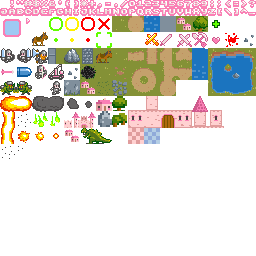
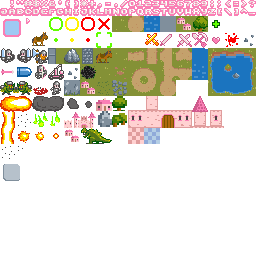
feat: damage and kill

Changed region(s): [[0.0, 0.625, 0.0938, 0.7188], [0.125, 0.3438, 0.1875, 0.375]]

diff --git a/src/main.ts b/src/main.ts
@@ -1,7 +1,7 @@
 import "./style.css";
 import { createCanvas, gameLoop, loadImage } from "./engine/gl-util.ts";
 import { SpriteRenderer } from "./engine/SpriteRenderer.ts";
-import { drawPanel, drawSprite2, drawText } from "./engine/renderUtils.ts";
+import { drawButton, drawPanel, drawSprite2, drawText } from "./engine/renderUtils.ts";
 import { TileMap } from "./engine/tilemap.ts";
 import { Game } from "./game/game.ts";
 import { findSprite, generateLevel } from "./game/levelGenerator.ts";
@@ -37,7 +37,7 @@ canvas.addEventListener("click", () => {
   game.eventQueue.push({ type: "click", pos: { ...game.cursor } });
 });
 
-const tilemap = new TileMap(30, 16);
+const tilemap = new TileMap(30, 17);
 generateLevel(tilemap);
 game.tilemap = tilemap;
 
@@ -53,8 +53,8 @@ function update() {
 function render() {
   const t = game.t;
 
-  for (let y = 0; y < 16; y++) {
-    for (let x = 0; x < 30; x++) {
+  for (let y = 0; y < 17; y++) {
+    for (let x = 6; x < 30; x++) {
       drawSprite2(renderer, x * 16, y * 16, tilemap.tiles[x + y * tilemap.width]);
     }
   }
@@ -171,26 +171,44 @@ function render() {
 
   const stats = game.ecs.getComponent<PlayerComponent>(game.activePlayer!, "player")!;
   if (stats) {
-    drawPanel(renderer, 0, 16, 10, 7);
-    drawText(renderer, 8, 24, stats.baseClass);
-    drawText(renderer, 8, 40, "HP: " + stats.health);
-    drawText(renderer, 8, 48, "AP: " + stats.strength);
-    drawText(renderer, 8, 56, "MP: " + stats.speed);
+    let y = 16;
+    drawPanel(renderer, 0, (y += 8), 12, 7);
+    drawText(renderer, 8, (y += 8), stats.baseClass);
+    drawText(renderer, 8, (y += 16), "HP: " + stats.health + "/" + stats.maxHealth);
+    drawText(renderer, 8, (y += 8), "AP: " + stats.strength);
+    drawText(renderer, 8, (y += 8), "MP: " + stats.speed);
   }
 
-  const hoveredfoeSprite = findSprite(game.ecs, game.cursor.x / 16, game.cursor.y / 16);
-  if (hoveredfoeSprite) {
-    const stats = game.ecs.getComponent<FoeComponent>(hoveredfoeSprite.entity, "foe")!;
-    if (stats) {
-      drawPanel(renderer, 0, 16 + 8 * 8, 10, 7);
-      drawText(renderer, 8, 24 + 8 * 8, stats.baseClass);
-      drawText(renderer, 8, 40 + 8 * 8, "HP: " + stats.health);
-      drawText(renderer, 8, 48 + 8 * 8, "AP: " + stats.strength);
-      drawText(renderer, 8, 56 + 8 * 8, "MP: " + stats.speed);
+  const hoveredSprite = findSprite(game.ecs, game.cursor.x / 16, game.cursor.y / 16);
+  if (hoveredSprite) {
+    const foeStats = game.ecs.getComponent<FoeComponent>(hoveredSprite.entity, "foe")!;
+    if (foeStats) {
+      let y = 16 + 8 * 7;
+      drawPanel(renderer, 0, (y += 8), 12, 7);
+      drawText(renderer, 8, (y += 8), foeStats.baseClass);
+      drawText(renderer, 8, (y += 16), "HP: " + foeStats.health + "/" + foeStats.maxHealth);
+      drawText(renderer, 8, (y += 8), "AP: " + foeStats.strength);
+      drawText(renderer, 8, (y += 8), "MP: " + foeStats.speed);
+    } else if (game.activePlayer === null) {
+      const playerStats = game.ecs.getComponent<PlayerComponent>(hoveredSprite.entity, "player")!;
+      if (playerStats) {
+        let y = 16;
+        drawPanel(renderer, 0, (y += 8), 12, 7);
+        drawText(renderer, 8, (y += 8), playerStats.baseClass);
+        drawText(renderer, 8, (y += 16), "HP: " + playerStats.health + "/" + playerStats.maxHealth);
+        drawText(renderer, 8, (y += 8), "AP: " + playerStats.strength);
+        drawText(renderer, 8, (y += 8), "MP: " + playerStats.speed);
+      }
     }
   }
 
-  drawText(renderer, 16, 16 * 16 + 2, "Ore: " + game.inventory.ore);
+  drawPanel(renderer, 0, 0, 12, 3);
+  drawText(renderer, 8, 8, game.side + " turn");
+
+  if (game.side === "player") {
+    drawButton(renderer, 0, 15 * 16 + 8, 12, "End turn", true);
+  }
+  // drawText(renderer, 16, 16 * 16 + 2, "Ore: " + game.inventory.ore);
 
   renderer.render();
 }

diff --git a/src/game/game.ts b/src/game/game.ts
@@ -30,21 +30,45 @@ export class Game {
     const player = ecs.createEntity();
     ecs.addComponents(
       player,
-      { type: "player", moved: false, baseClass: "swordsman", health: 15, strength: 7, speed: 5 },
+      {
+        type: "player",
+        moved: false,
+        baseClass: "swordsman",
+        health: 15,
+        maxHealth: 15,
+        strength: 7,
+        speed: 5,
+      },
       { type: "sprite", x: 8 * 16, y: 3 * 16, sprite: spriteNames.swordsman },
     );
 
     const player2 = ecs.createEntity();
     ecs.addComponents(
       player2,
-      { type: "player", moved: false, baseClass: "dwarf", health: 17, strength: 5, speed: 5 },
+      {
+        type: "player",
+        moved: false,
+        baseClass: "dwarf",
+        health: 17,
+        maxHealth: 17,
+        strength: 5,
+        speed: 5,
+      },
       { type: "sprite", x: 8 * 16, y: 5 * 16, sprite: spriteNames.dwarf },
     );
 
     const player3 = ecs.createEntity();
     ecs.addComponents(
       player3,
-      { type: "player", moved: false, baseClass: "archer", health: 12, strength: 3, speed: 5 },
+      {
+        type: "player",
+        moved: false,
+        baseClass: "archer",
+        health: 12,
+        maxHealth: 12,
+        strength: 3,
+        speed: 5,
+      },
       { type: "sprite", x: 6 * 16, y: 4 * 16, sprite: spriteNames.archer },
       { type: "shoot", bullet: spriteNames.arrow },
     );
@@ -52,7 +76,15 @@ export class Game {
     const player4 = ecs.createEntity();
     ecs.addComponents(
       player4,
-      { type: "player", moved: false, baseClass: "trebuchet", health: 7, strength: 99, speed: 3 },
+      {
+        type: "player",
+        moved: false,
+        baseClass: "trebuchet",
+        health: 7,
+        maxHealth: 7,
+        strength: 99,
+        speed: 3,
+      },
       { type: "sprite", x: 6 * 16, y: 6 * 16, sprite: spriteNames.trebuchet },
       { type: "shoot", bullet: spriteNames.bomb },
     );
@@ -60,21 +92,45 @@ export class Game {
     const foe = ecs.createEntity();
     ecs.addComponents(
       foe,
-      { type: "foe", moved: false, baseClass: "orc", health: 10, strength: 1, speed: 5 },
+      {
+        type: "foe",
+        moved: false,
+        baseClass: "orc",
+        health: 10,
+        maxHealth: 10,
+        strength: 1,
+        speed: 5,
+      },
       { type: "sprite", x: 20 * 16, y: 10 * 16, sprite: spriteNames.orc },
     );
 
     const foe2 = ecs.createEntity();
     ecs.addComponents(
       foe2,
-      { type: "foe", moved: false, baseClass: "orc", health: 10, strength: 1, speed: 5 },
+      {
+        type: "foe",
+        moved: false,
+        baseClass: "orc",
+        health: 10,
+        maxHealth: 10,
+        strength: 1,
+        speed: 5,
+      },
       { type: "sprite", x: 21 * 16, y: 12 * 16, sprite: spriteNames.orc },
     );
 
     const dragon = ecs.createEntity();
     ecs.addComponents(
       dragon,
-      { type: "foe", moved: false, baseClass: "dragon", health: 57, strength: 11, speed: 3 },
+      {
+        type: "foe",
+        moved: false,
+        baseClass: "dragon",
+        health: 57,
+        maxHealth: 57,
+        strength: 11,
+        speed: 3,
+      },
       { type: "sprite", x: 23 * 16, y: 9 * 16, sprite: spriteNames.dragon1 },
     );
   }

diff --git a/src/game/moveSystem.ts b/src/game/moveSystem.ts
@@ -1,5 +1,7 @@
 import { Game } from "./game.ts";
-import { ShootComponent, SpriteComponent } from "./components.ts";
+import { FoeComponent, PlayerComponent, ShootComponent, SpriteComponent } from "./components.ts";
+import { findSprite } from "./levelGenerator.ts";
+import { spriteNames } from "./sprites.ts";
 
 export function moveSystem(game: Game) {
   if (game.commandQueue.length === 0) return;
@@ -21,14 +23,36 @@ export function moveSystem(game: Game) {
       break;
     }
     case "mine": {
-      game.inventory.ore += (3 + Math.random() * 3) | 0;
       if (command.ttl-- === 0) {
+        game.inventory.ore += (3 + Math.random() * 3) | 0;
         game.commandQueue.splice(game.commandQueue.indexOf(command), 1);
       }
       break;
     }
     case "attack": {
       if (command.ttl-- === 0) {
+        const targetSprite = findSprite(game.ecs, command.pos.x, command.pos.y);
+        const targetFoe =
+          targetSprite && game.ecs.getComponent<FoeComponent>(targetSprite.entity, "foe");
+        const targetPlayer =
+          targetSprite && game.ecs.getComponent<PlayerComponent>(targetSprite.entity, "player");
+        const actor =
+          game.ecs.getComponent<PlayerComponent>(command.entity, "player") ??
+          game.ecs.getComponent<FoeComponent>(command.entity, "foe");
+        const target = targetFoe ?? targetPlayer;
+        if (actor && target) {
+          target.health -= actor.strength;
+          if (target.health <= 0) {
+            game.ecs.removeEntity(targetSprite!.entity);
+            const skull = game.ecs.createEntity();
+            game.ecs.addComponents(skull, {
+              type: "sprite",
+              x: targetSprite!.x,
+              y: targetSprite!.y,
+              sprite: spriteNames.skull,
+            });
+          }
+        }
         game.commandQueue.splice(game.commandQueue.indexOf(command), 1);
       }
       break;

diff --git a/src/engine/renderUtils.ts b/src/engine/renderUtils.ts
@@ -6,6 +6,7 @@ export function drawTextbox(
   y: number,
   w: number,
   text: string,
+  centered = false,
 ) {
   let lines = [];
   let currentWidth = 0;
@@ -29,14 +30,57 @@ export function drawTextbox(
   }
   drawPanel(renderer, x, y, w, lines.length + 2);
   lines.forEach((line, i) => {
-    drawText(renderer, x + 8, y + 8 + i * 8, line);
+    const leftPad = centered ? 7 + (maxWidth - line.length * 7) / 2 : 8;
+    drawText(renderer, x + leftPad, y + 8 + i * 8, line);
   });
 }
 
-export function drawPanel(renderer: SpriteRenderer, x: number, y: number, w: number, h: number) {
+export function drawButton(
+  renderer: SpriteRenderer,
+  x: number,
+  y: number,
+  w: number,
+  text: string,
+  centered = false,
+) {
+  let lines = [];
+  let currentWidth = 0;
+  const maxWidth = w * 8 - 16;
+  let currentLine: string[] = [];
+  const words = text.split(" ");
+  words.forEach((word, i) => {
+    if (currentWidth + word.length * 7 > maxWidth) {
+      lines.push(currentLine.join(" "));
+      currentWidth = 0;
+      currentLine = [];
+    }
+    currentLine.push(word);
+    currentWidth += word.length * 7;
+    if (i < words.length - 1) {
+      currentWidth += 7;
+    }
+  });
+  if (currentLine.length > 0) {
+    lines.push(currentLine.join(" "));
+  }
+  drawPanel(renderer, x, y, w, lines.length + 2, 32 * 21 + 1);
+  lines.forEach((line, i) => {
+    const leftPad = centered ? 7 + (maxWidth - line.length * 7) / 2 : 8;
+    drawText(renderer, x + leftPad, y + 8 + i * 8, line);
+  });
+}
+
+export function drawPanel(
+  renderer: SpriteRenderer,
+  x: number,
+  y: number,
+  w: number,
+  h: number,
+  base = 32 * 3 + 1,
+) {
   for (let dy = 0; dy < h; dy++) {
     for (let dx = 0; dx < w; dx++) {
-      let sprite = 32 * 3 + 1;
+      let sprite = base;
       if (dy === 0) sprite -= 32;
       if (dy === h - 1) sprite += 32;
       if (dx === 0) sprite -= 1;

diff --git a/src/engine/SpriteRenderer.ts b/src/engine/SpriteRenderer.ts
@@ -233,7 +233,7 @@ export class SpriteRenderer {
         gl.bufferSubData(gl.ARRAY_BUFFER, 0, this.dataview, 0);
         gl.drawArrays(gl.TRIANGLES, 0, 6 * (batchSize + 1));
         offset = -4;
-        painted += batchSize;
+        painted += batchSize + 1;
       }
     });
 
@@ -242,6 +242,7 @@ export class SpriteRenderer {
       gl.bufferSubData(gl.ARRAY_BUFFER, 0, this.dataview, 0);
       gl.drawArrays(gl.TRIANGLES, 0, 6 * remaining);
     }
+
     this.queue.length = 0;
   }
 }

diff --git a/src/engine/findPath.ts b/src/engine/findPath.ts
@@ -66,6 +66,6 @@ export function findPath(
   return path.reverse();
 }
 
-function hDist(a: Point, b: Point) {
+export function hDist(a: Point, b: Point) {
   return Math.abs(a.x - b.x) + Math.abs(a.y - b.y);
 }

diff --git a/src/game/components.ts b/src/game/components.ts
@@ -22,6 +22,7 @@ export interface ShootComponent {
 
 export interface Stats {
   baseClass: BaseClass;
+  maxHealth: number;
   health: number;
   strength: number;
   speed: number;

diff --git a/src/game/sprites.ts b/src/game/sprites.ts
@@ -8,6 +8,8 @@ export const spriteNames = {
   dragon1: 16 * 8 + 5,
   dragon2: 16 * 8 + 6,
 
+  skull: 16 * 5 + 2,
+
   arrow: 16 * 4,
   bomb: 16 * 4 + 1,
 };

diff --git a/src/style.css b/src/style.css
@@ -1,5 +1,5 @@
 :root {
-  background: grey;
+  background: black;
   color: pink;
 }
 
